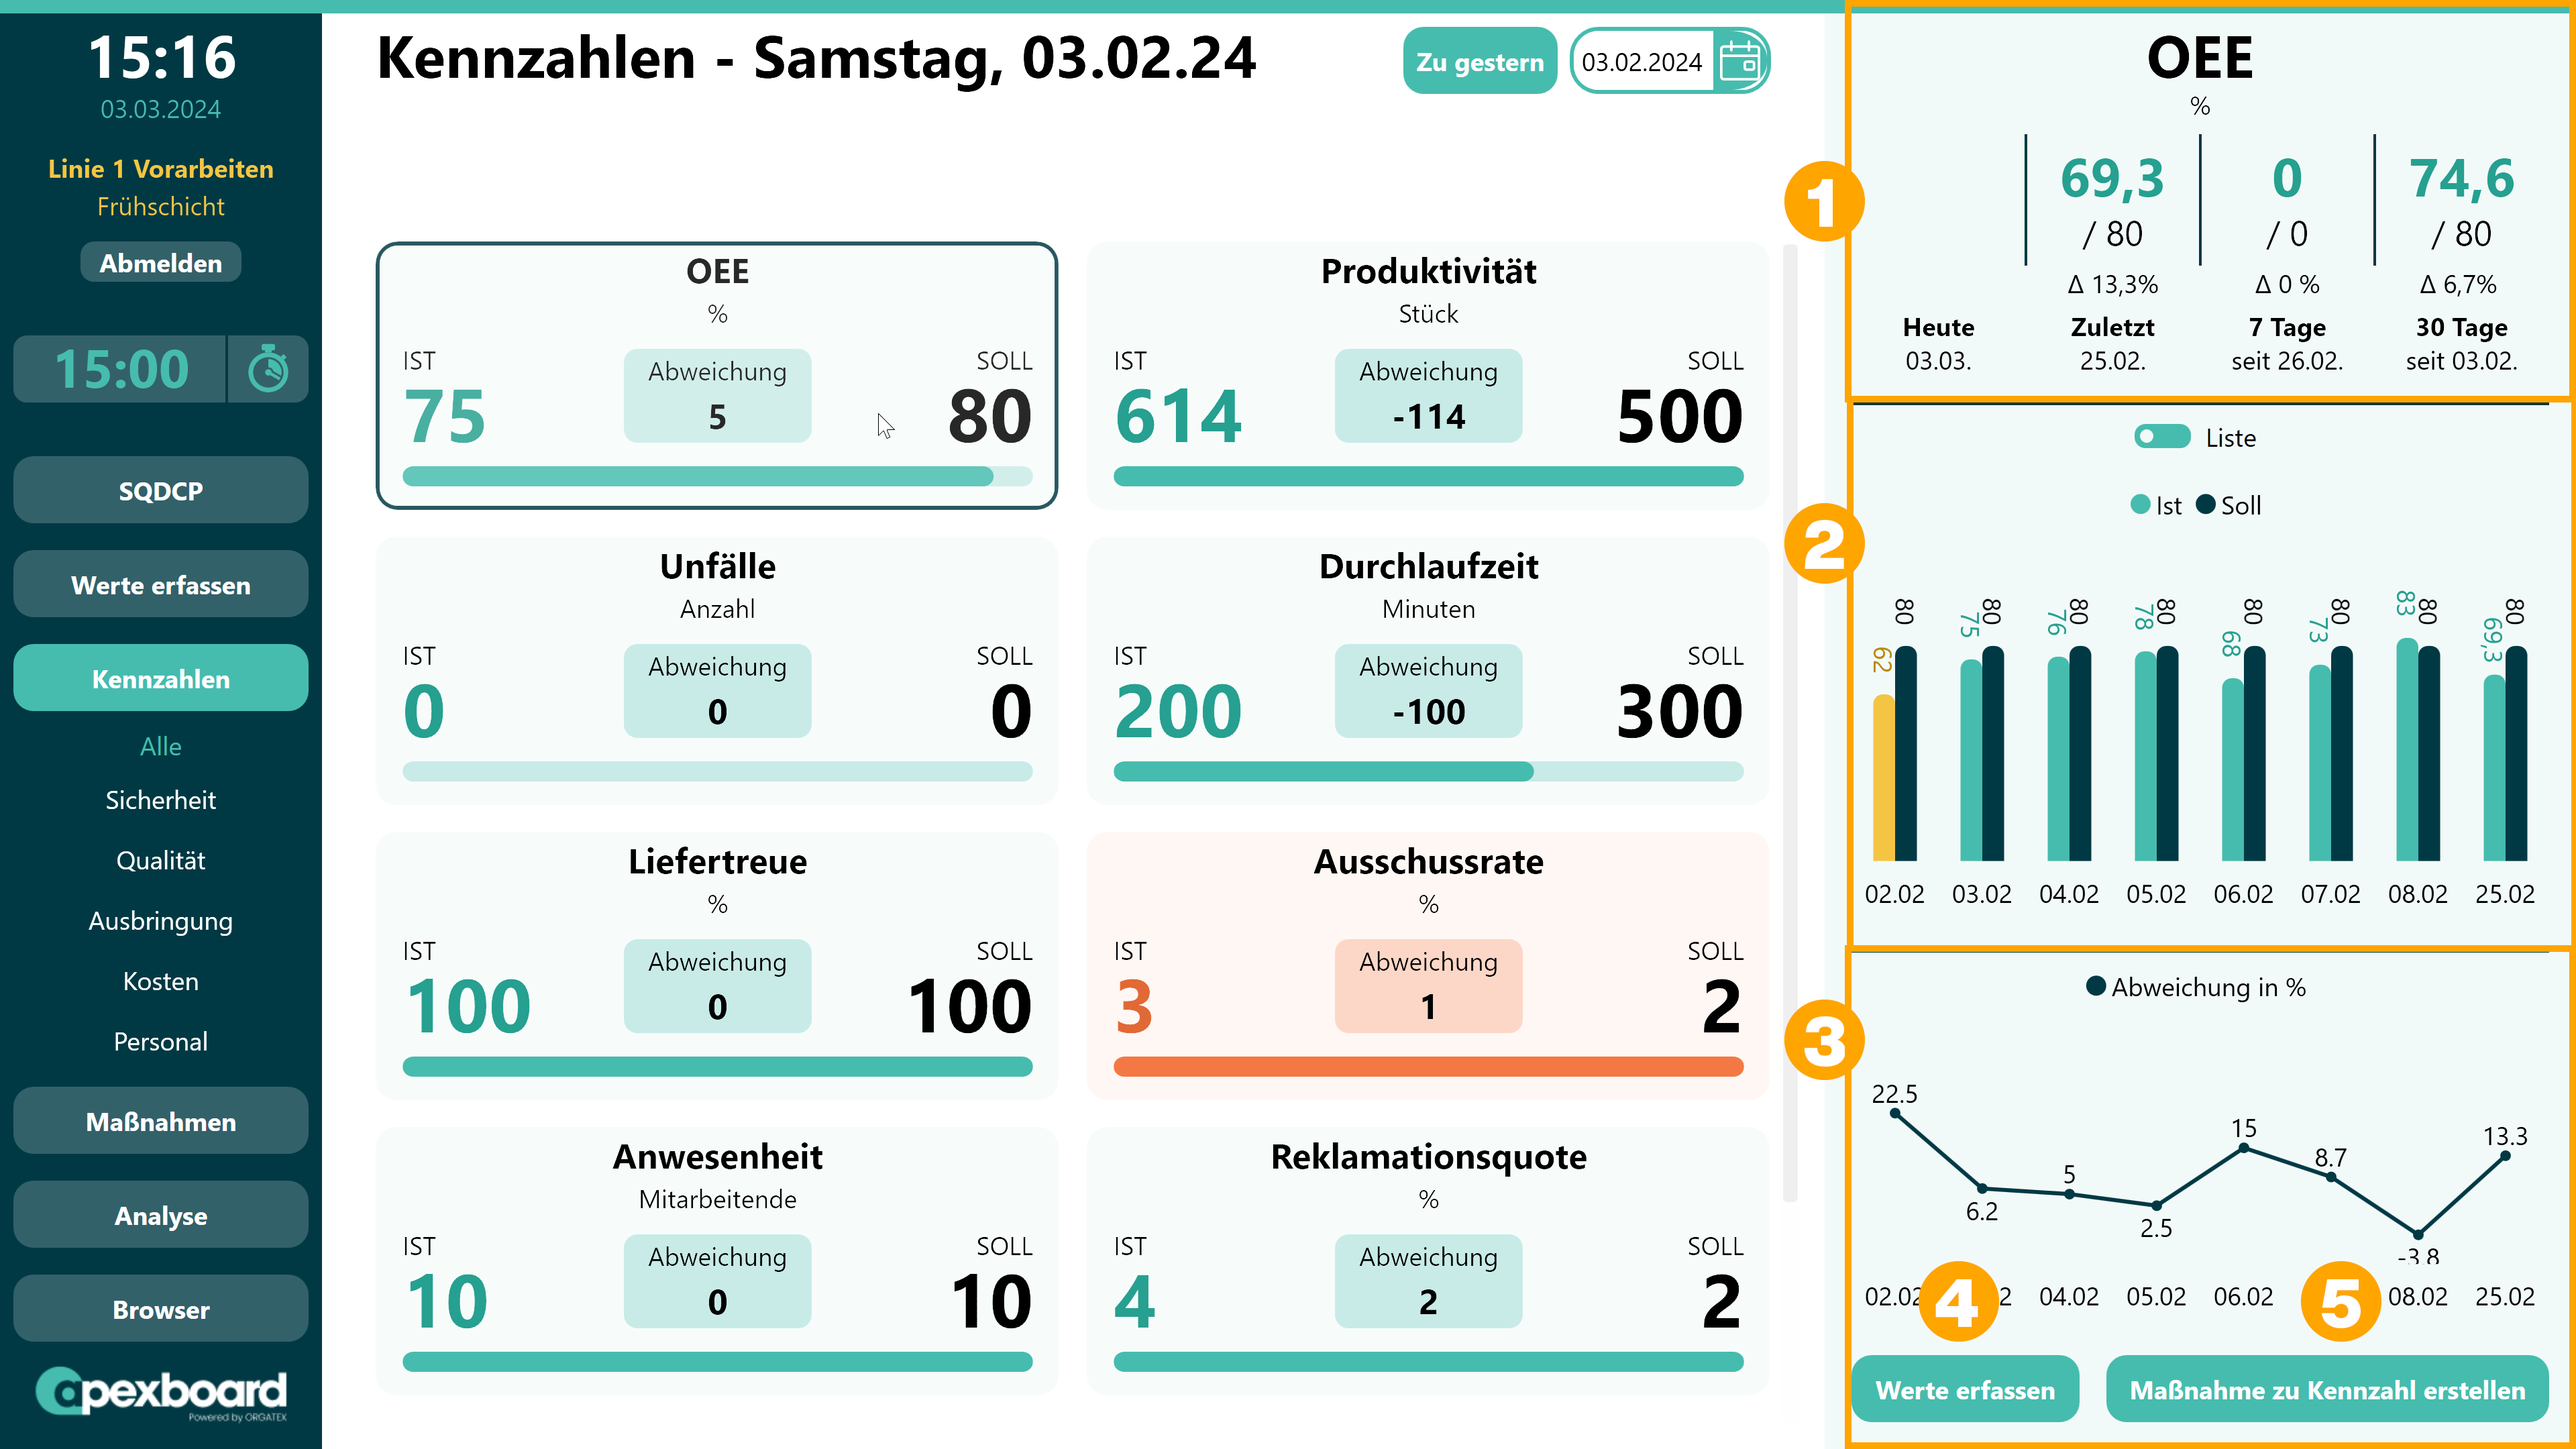
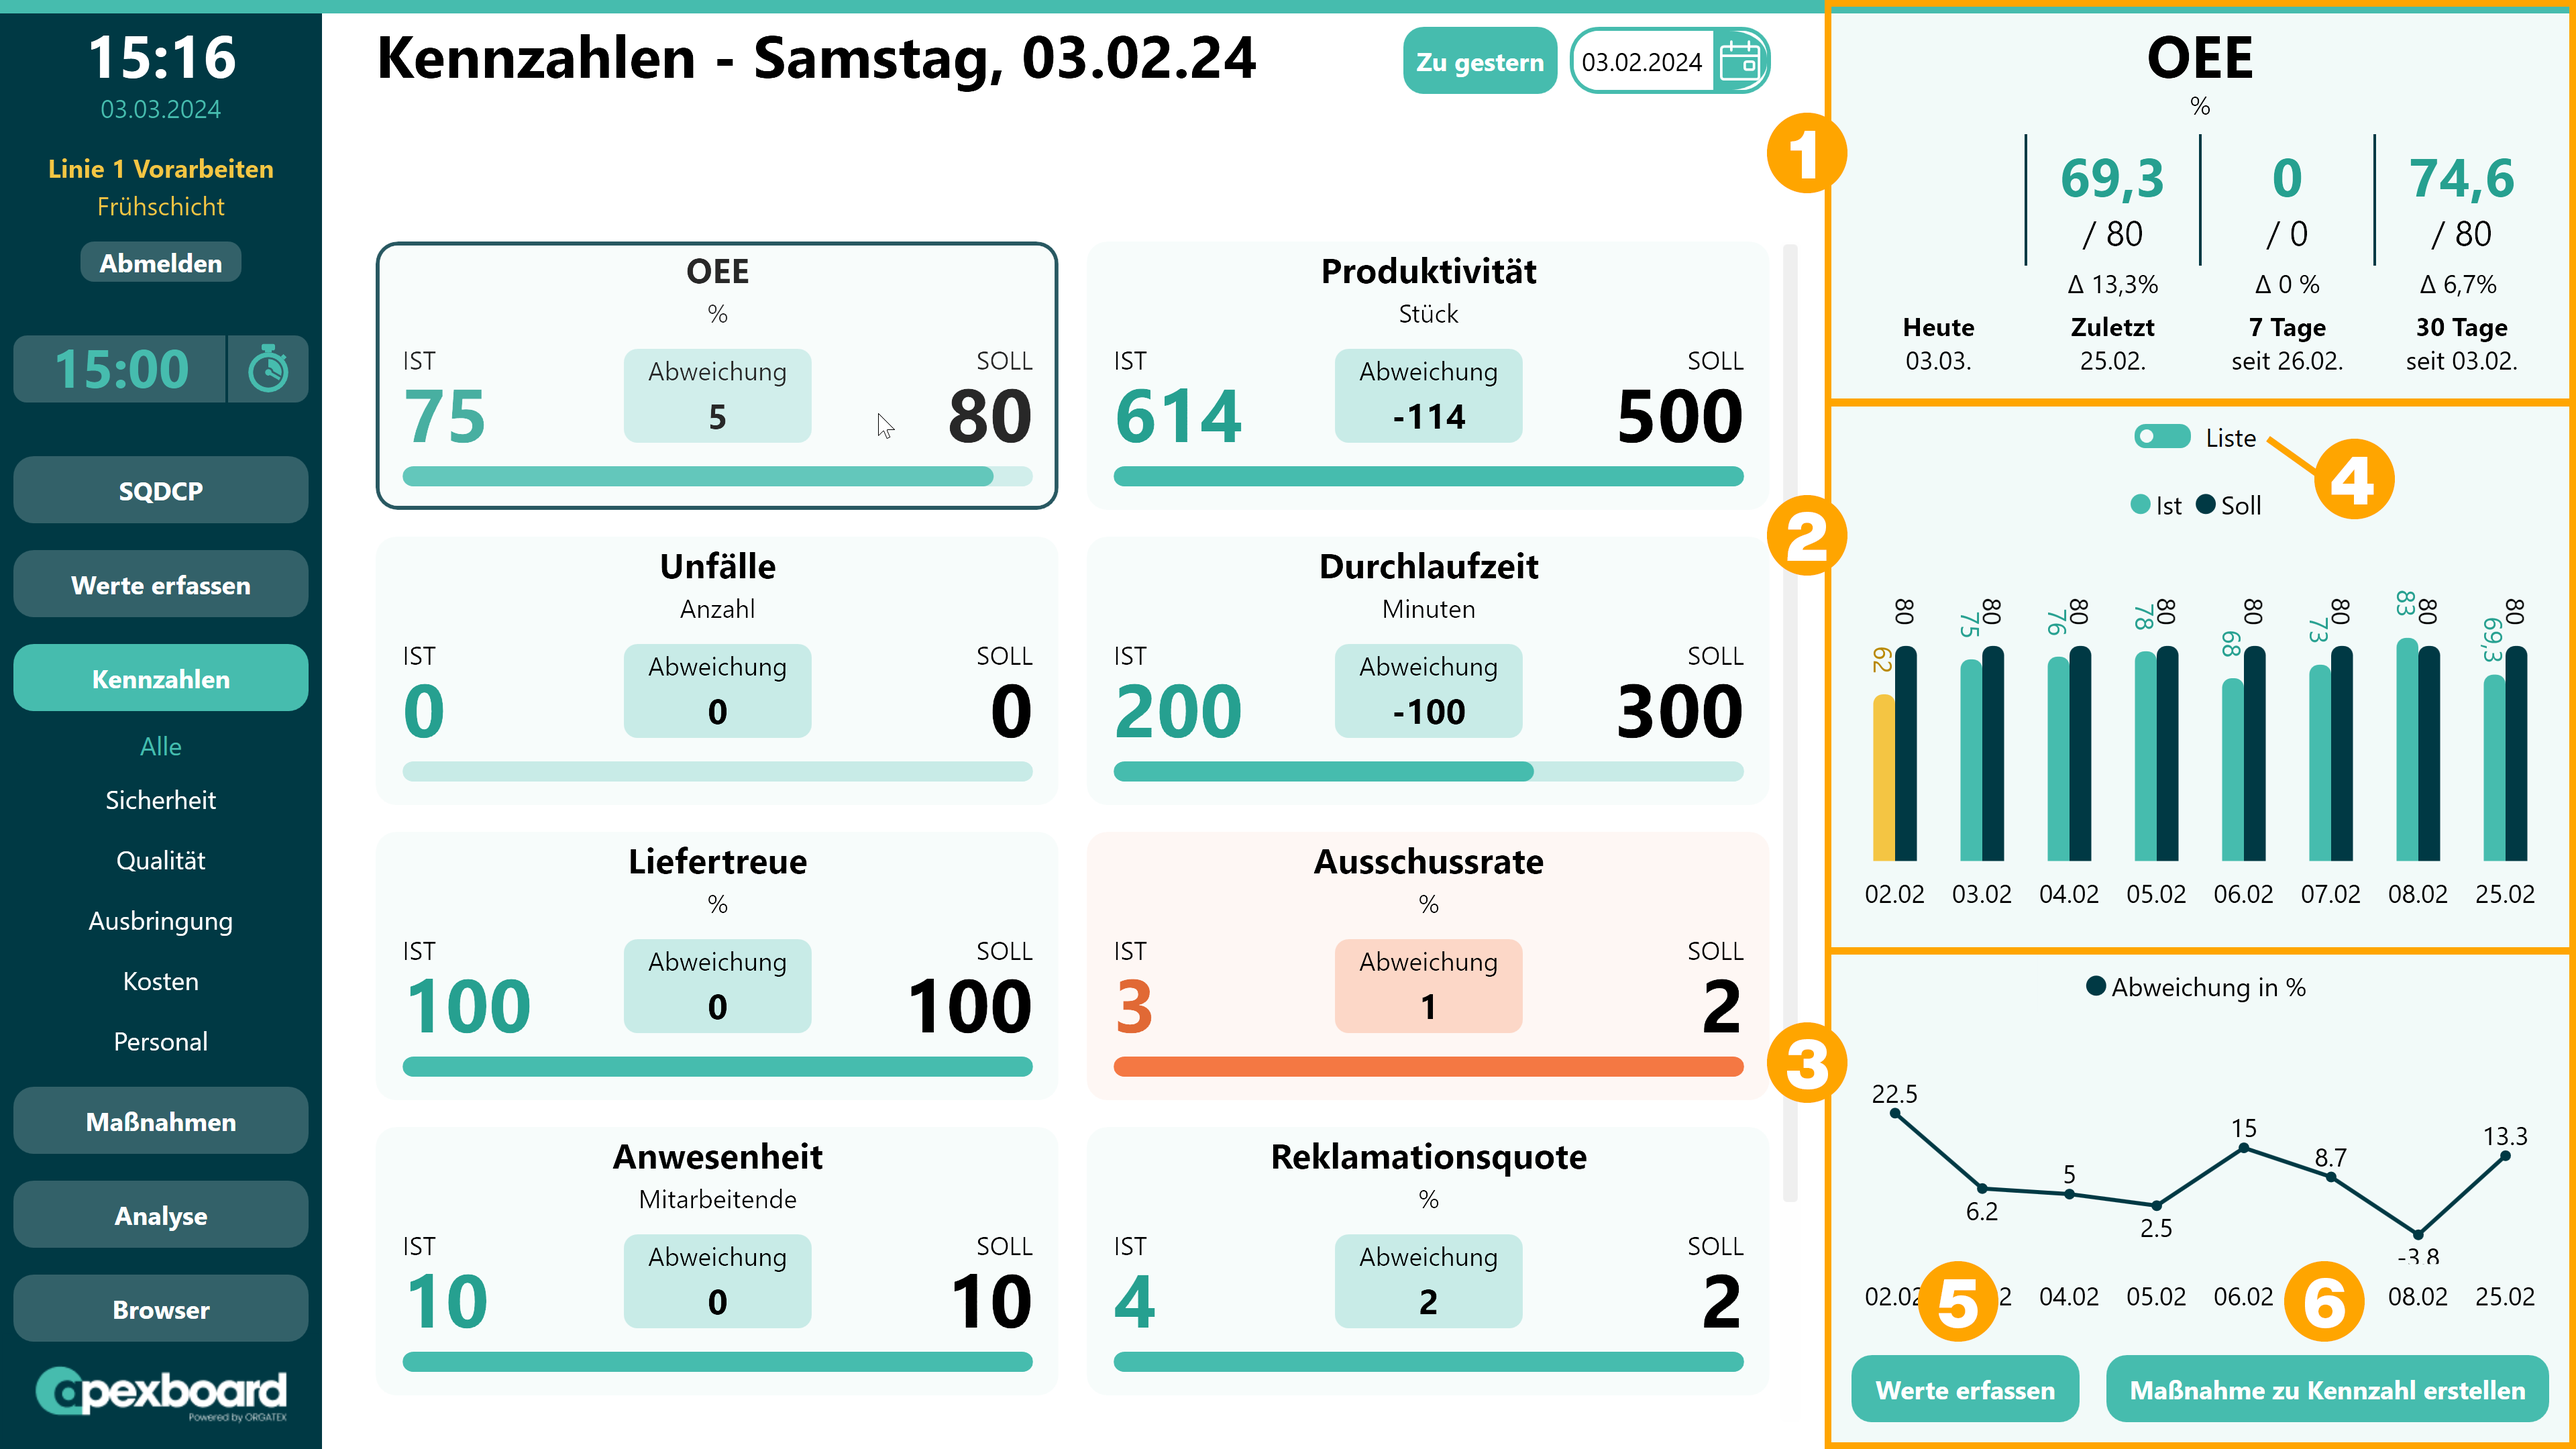
Fixes

Changed region(s): [[0.6875, 0.0, 0.9688, 1.0], [0.875, 0.8685, 0.9375, 0.9306], [0.75, 0.8685, 0.7812, 0.9306]]

diff --git a/content/_misc/de-apexboard-peakboard-hub.md b/content/_misc/de-apexboard-peakboard-hub.md
@@ -79,6 +79,7 @@ In der Peakboard Hub Liste [SFM_M_Kpi] definierst du alle Eigenschaften deiner [
 | RelativeDelta     | Wenn für den Schwellenwert der Farbabstufung die relative Abweichung in Prozent genutzt werden soll, anstatt beispielsweise der exakten absoluten Abweichung in Stück, dann muss diese Checkbox aktiviert werden. Die Angaben in den Spalten [DeltaOrange] und [DeltaRed] werden dann in Prozent interpretiert, anstatt in der unter [Unit] angegebenen Einheit. |
 | NegativeKpi       | Mit dieser Checkbox kann festgelegt werden, wie Abweichungen vom Soll-Wert der Kennzahl interpretiert werden. Ist die Checkbox aktiviert, ist das Ziel, mit dem Ist-Wert unter dem Soll-Wert zu bleiben. Eine Überschreitung des Soll-Wertes hat negative Auswirkungen. Beispiel für solche Kennzahlen wären beispielsweise Unfälle, Durchlaufzeiten oder Ausschuss. |
 | ShowCurrentDay    | Mit dieser Checkbox legst du fest, welches Datum standardmäßig bei der Erfassung der Kennzahl hinterlegt sein soll. Bei aktivierter Checkbox wird der aktuelle Tag hinterlegt, ansonsten wird der Vortag angezeigt. Über das Datumsfeld kann weiterhin ein abweichendes Datum gewählt werden. |
+| SortingPosition   | Mit dieser Spalte legst du die Sortierungsreihenfolge fest.                               |
 
 [zum Seitenanfang](#anfang)
 
@@ -121,6 +122,7 @@ Die Spalten werden wie folgt befüllt.
 | ShowShift         | Mit dieser Checkbox legst du fest, ob die Schicht in der [Schichtauswahl](/apexboard/de-apexboard-settings.html) angezeigt wird oder ausgeblendet ist. |
 | ShiftStartTime    | Hier legst du im Format HHmm (Stunden:Minuten im 24-Stunden-Zeitformat) fest, um welche Uhrzeit die Schicht beginnt.  |
 | ShiftEndTime      | Hier legst du fest, um welche Uhrzeit die angelegte Schicht endet.                                                    |
+| SortingPosition   | Mit dieser Spalte legst du die Sortierungsreihenfolge fest.                                                           |
 
 [zum Seitenanfang](#anfang)
 

diff --git a/content/_misc/de-apexboard-capture.md b/content/_misc/de-apexboard-capture.md
@@ -47,11 +47,11 @@ Rechts oben findest du ein Info-Symbol (2). Durch einen Klick darauf wird dir ei
 
 In der Maske trägst du jetzt den aktuell Ist-Wert (3) sowie den Soll-Wert (4) ein.
 
-Wähle dann das gewünschte Datum (5) für den Wert aus. Das hier standardmäßig voreingestellte Datum [stellst du ebenfalls im Peakboard Hub ein](/apexboard/de-apexboard-peakboard-hub.html). Es kann entweder der aktuelle Tag oder der Vortag sein. Die Uhrzeit wird automatisch erfasst.
+Wähle dann das gewünschte Datum (5) für den Wert aus. Das hier standardmäßig voreingestellte Datum [stellst du ebenfalls im Peakboard Hub ein](/apexboard/de-apexboard-peakboard-hub.html). Es kann entweder der aktuelle Tag oder der Vortag sein. Die Uhrzeit wird automatisch erfasst. Mit dem Button [Zu heute] stellst du das Datum auf den heutigen Tag.
 
 Im Feld [Erfasst von] (6) wählst du aus von welchem Mitarbeiter der Wert ursprünglich erfasst wurde. Es stehen dabei alle Mitarbeiter, die [im Peakboard Hub hinterlegt wurden](/apexboard/de-apexboard-peakboard-hub.html) zur Auswahl.
 
-Zuletzt kannst du noch einen Kommentar (7) zu deinem erfassten Wert eintragen.
+Zuletzt kannst du noch einen Kommentar (7) zu deinem erfassten Wert eintragen. Dies kannst du nutzen um beispielsweise eine Kennzahl auf mehrere Maschinen aufzuteilen und später in den [Kennzahlen](/apexboard/de-apexboard-keyfigures.html) wieder anzuzeigen.
 
 Mit [Erfassen] (8) wird der Wert gespeichert und erscheint in der Liste der zuletzt erfassten Werte (9).
 

diff --git a/content/_misc/de-apexboard-keyfigures.md b/content/_misc/de-apexboard-keyfigures.md
@@ -50,9 +50,11 @@ In den Details der Kennzahlen findest du drei Bereiche zur derzeit markierten Ke
 
 Wie die Werte der Aggregationsanzeige und des Ist/Soll Vergleichs aggregiert werden [legst du vorab im Peakboard Hub fest](de-apexboard-peakboard-hub.html).
 
-Unterhalb der Detailanzeige kannst du mit [Werte erfassen] (4) direkt weitere Werte für den aktuell im Datumsfeld ausgewählten Tag für die markierte Kennzahl erfassen.
+Hast du beim [Erfassen von Werten](/apexboard/de-apexboard-capture.html) für eine Kennzahl mehrere Werte erfasst und diese per Kommentar voneinander unterschieden, kannst du die erfassten Werte mit einem Klick auf den [Liste]-Button (4) anzeigen lassen. Der aggregierte Wert der markierten Kennzahl setzt sich aus den Datensätzen zusammen, die in der Liste angezeigt werden.
 
-Über [Maßnahme zu Kennzahl erstellen] (5) kannst du direkt [in den Erstellungsdialog einer neuen Maßnahme springen](/apexboard/de-apexboard-measures.html) in dem die Kennzahl automatisch integriert wird.
+Unterhalb der Detailanzeige kannst du mit [Werte erfassen] (5) direkt weitere Werte für den aktuell im Datumsfeld ausgewählten Tag für die markierte Kennzahl erfassen.
+
+Über [Maßnahme zu Kennzahl erstellen] (6) kannst du direkt [in den Erstellungsdialog einer neuen Maßnahme springen](/apexboard/de-apexboard-measures.html) in dem die Kennzahl automatisch integriert wird.
 
 ![Kennzahlen Details](/assets/images/apexboard/keyfigures/de_apexboard-keyfigures-03.png)
 
